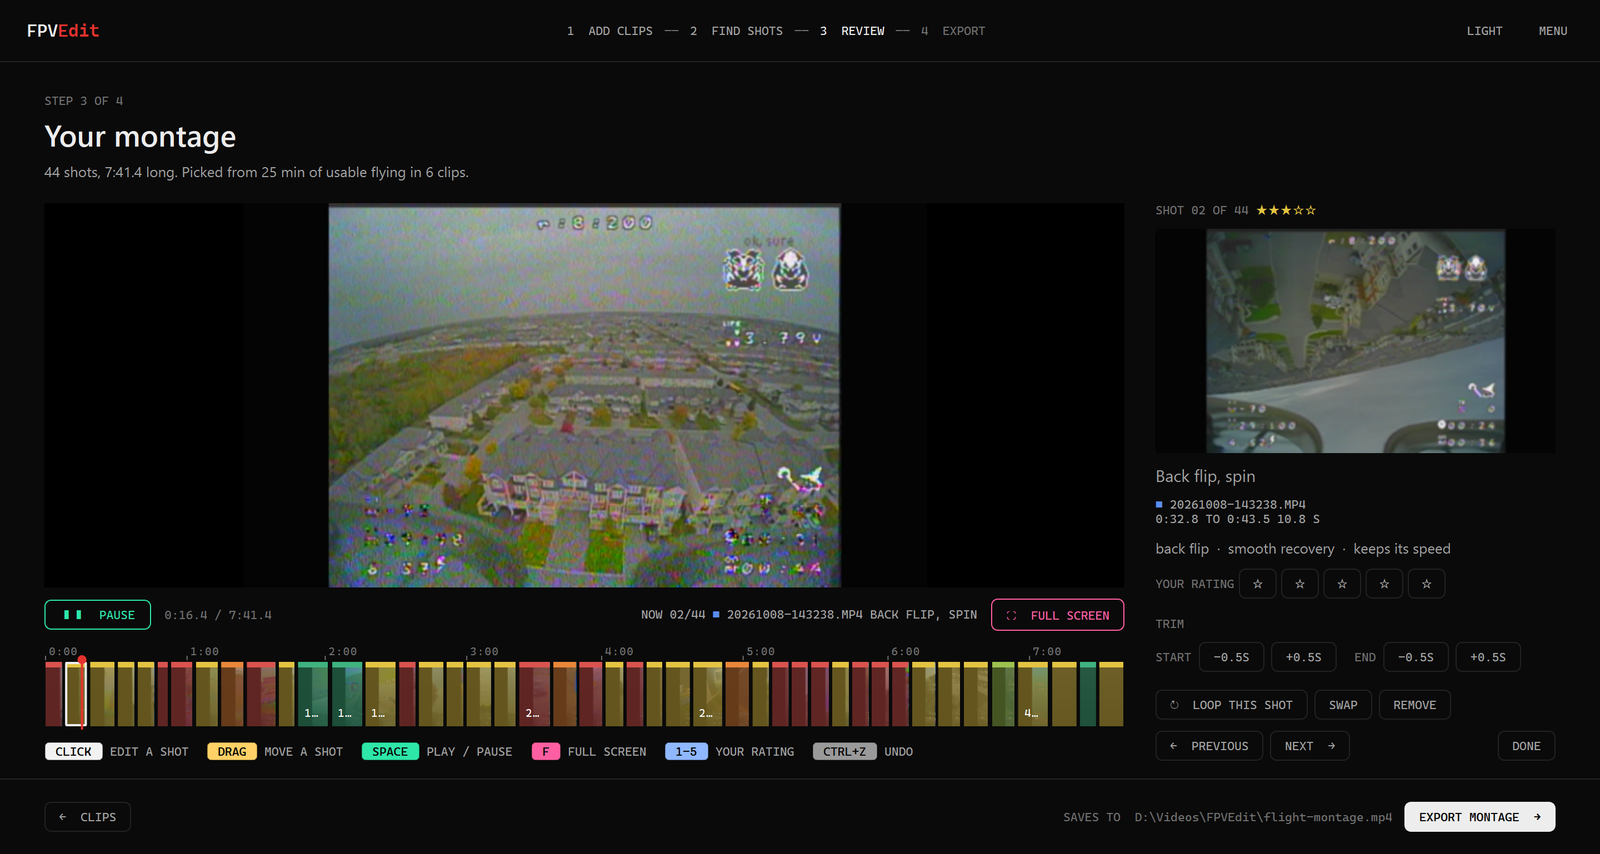
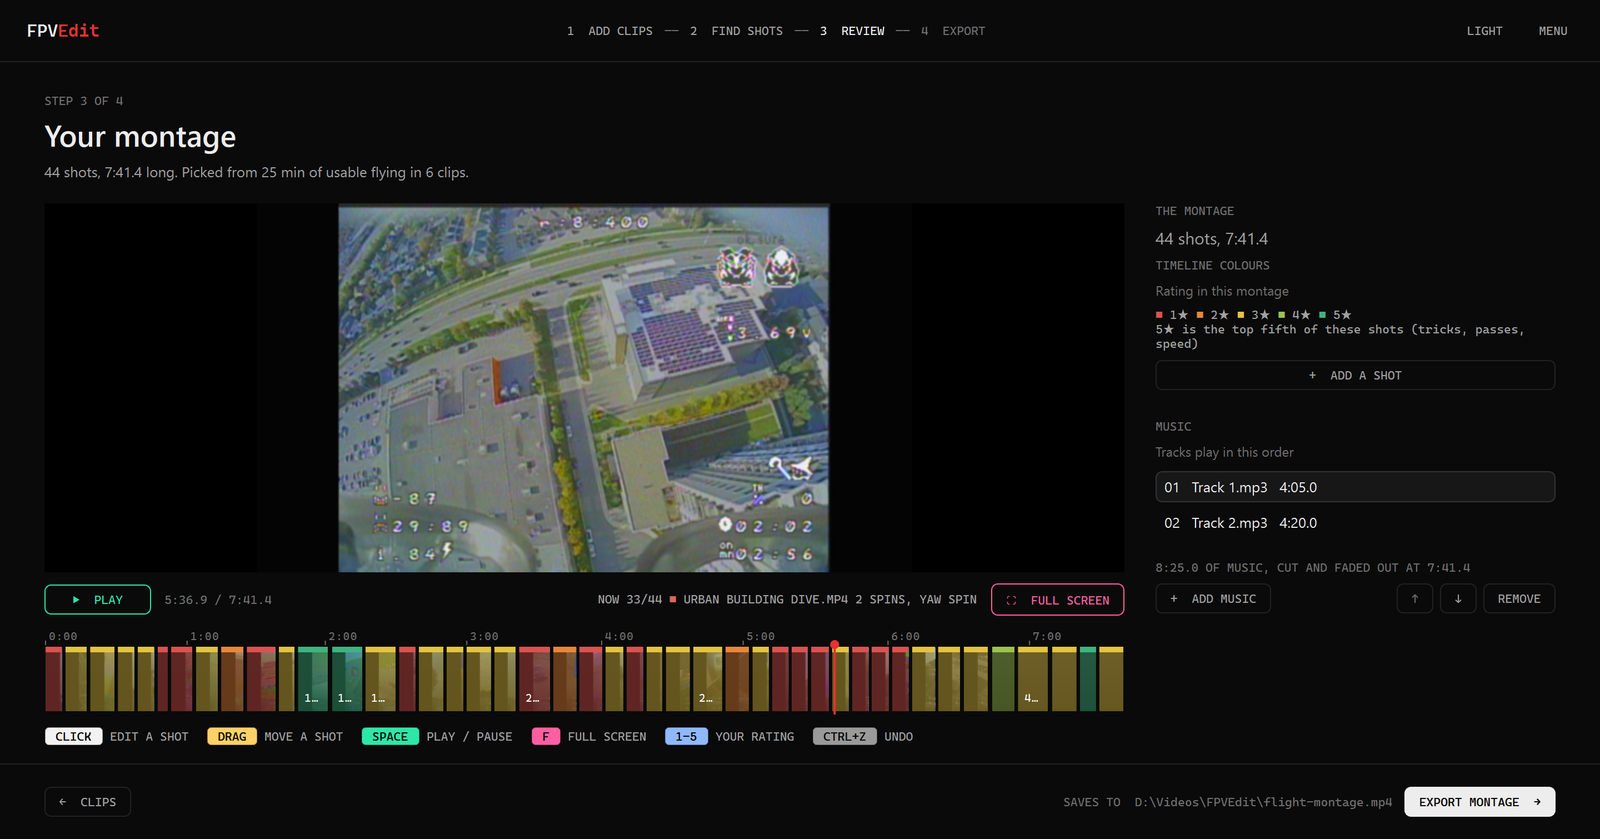
Ko-fi link, README badges and project links; fresher screenshots

diff --git a/README.md b/README.md
@@ -1,10 +1,15 @@
 # FPVEdit
 
+[![CI](https://github.com/dominic-salas/FPVEdit/actions/workflows/ci.yml/badge.svg)](https://github.com/dominic-salas/FPVEdit/actions/workflows/ci.yml)
+[![Latest release](https://img.shields.io/github/v/release/dominic-salas/FPVEdit)](https://github.com/dominic-salas/FPVEdit/releases/latest)
+[![MIT licence](https://img.shields.io/github/license/dominic-salas/FPVEdit)](LICENSE)
+[![Support on Ko-fi](https://img.shields.io/badge/Ko--fi-support-ff5e5b?logo=ko-fi&logoColor=white)](https://ko-fi.com/dvsalas)
+
 FPVEdit turns raw FPV freestyle recordings (`.ts` or `.mp4` from your goggles' DVR) into one
 montage of their best shots: flips, rolls, spins and close passes, with the crashes, menus,
 static and dull cruising left out. It runs entirely on your computer; nothing is uploaded.
 
-![The montage page: the shots on a timeline coloured by rating, one shot open for editing](docs/images/montage.png)
+![The montage page: the picked shots on a timeline coloured by rating, with background music](docs/images/montage.png)
 
 ## Download (Windows)
 
@@ -127,6 +132,11 @@ Development: see [CONTRIBUTING.md](CONTRIBUTING.md). The installer is built by
 `.github/workflows/release.yml` (standalone app with PyInstaller, FFmpeg, Inno Setup).
 `eval/annotations/` holds hand-labelled test flights and `scripts/evaluate.py` scores an
 edit against them.
+
+## Support
+
+FPVEdit is free and open source. If it saves you editing time, you can buy me a coffee on
+[Ko-fi](https://ko-fi.com/dvsalas). Bug reports and pull requests help just as much.
 
 ## Licence
 

diff --git a/CHANGELOG.md b/CHANGELOG.md
@@ -1,5 +1,10 @@
 # Changelog
 
+## Unreleased
+
+- Review page: the Music and Timeline colours labels sit on their own line, apart from
+  their hints.
+
 ## 1.0.0 (2026-10-20)
 
 First public release: a Windows installer with everything included (FFmpeg too).
